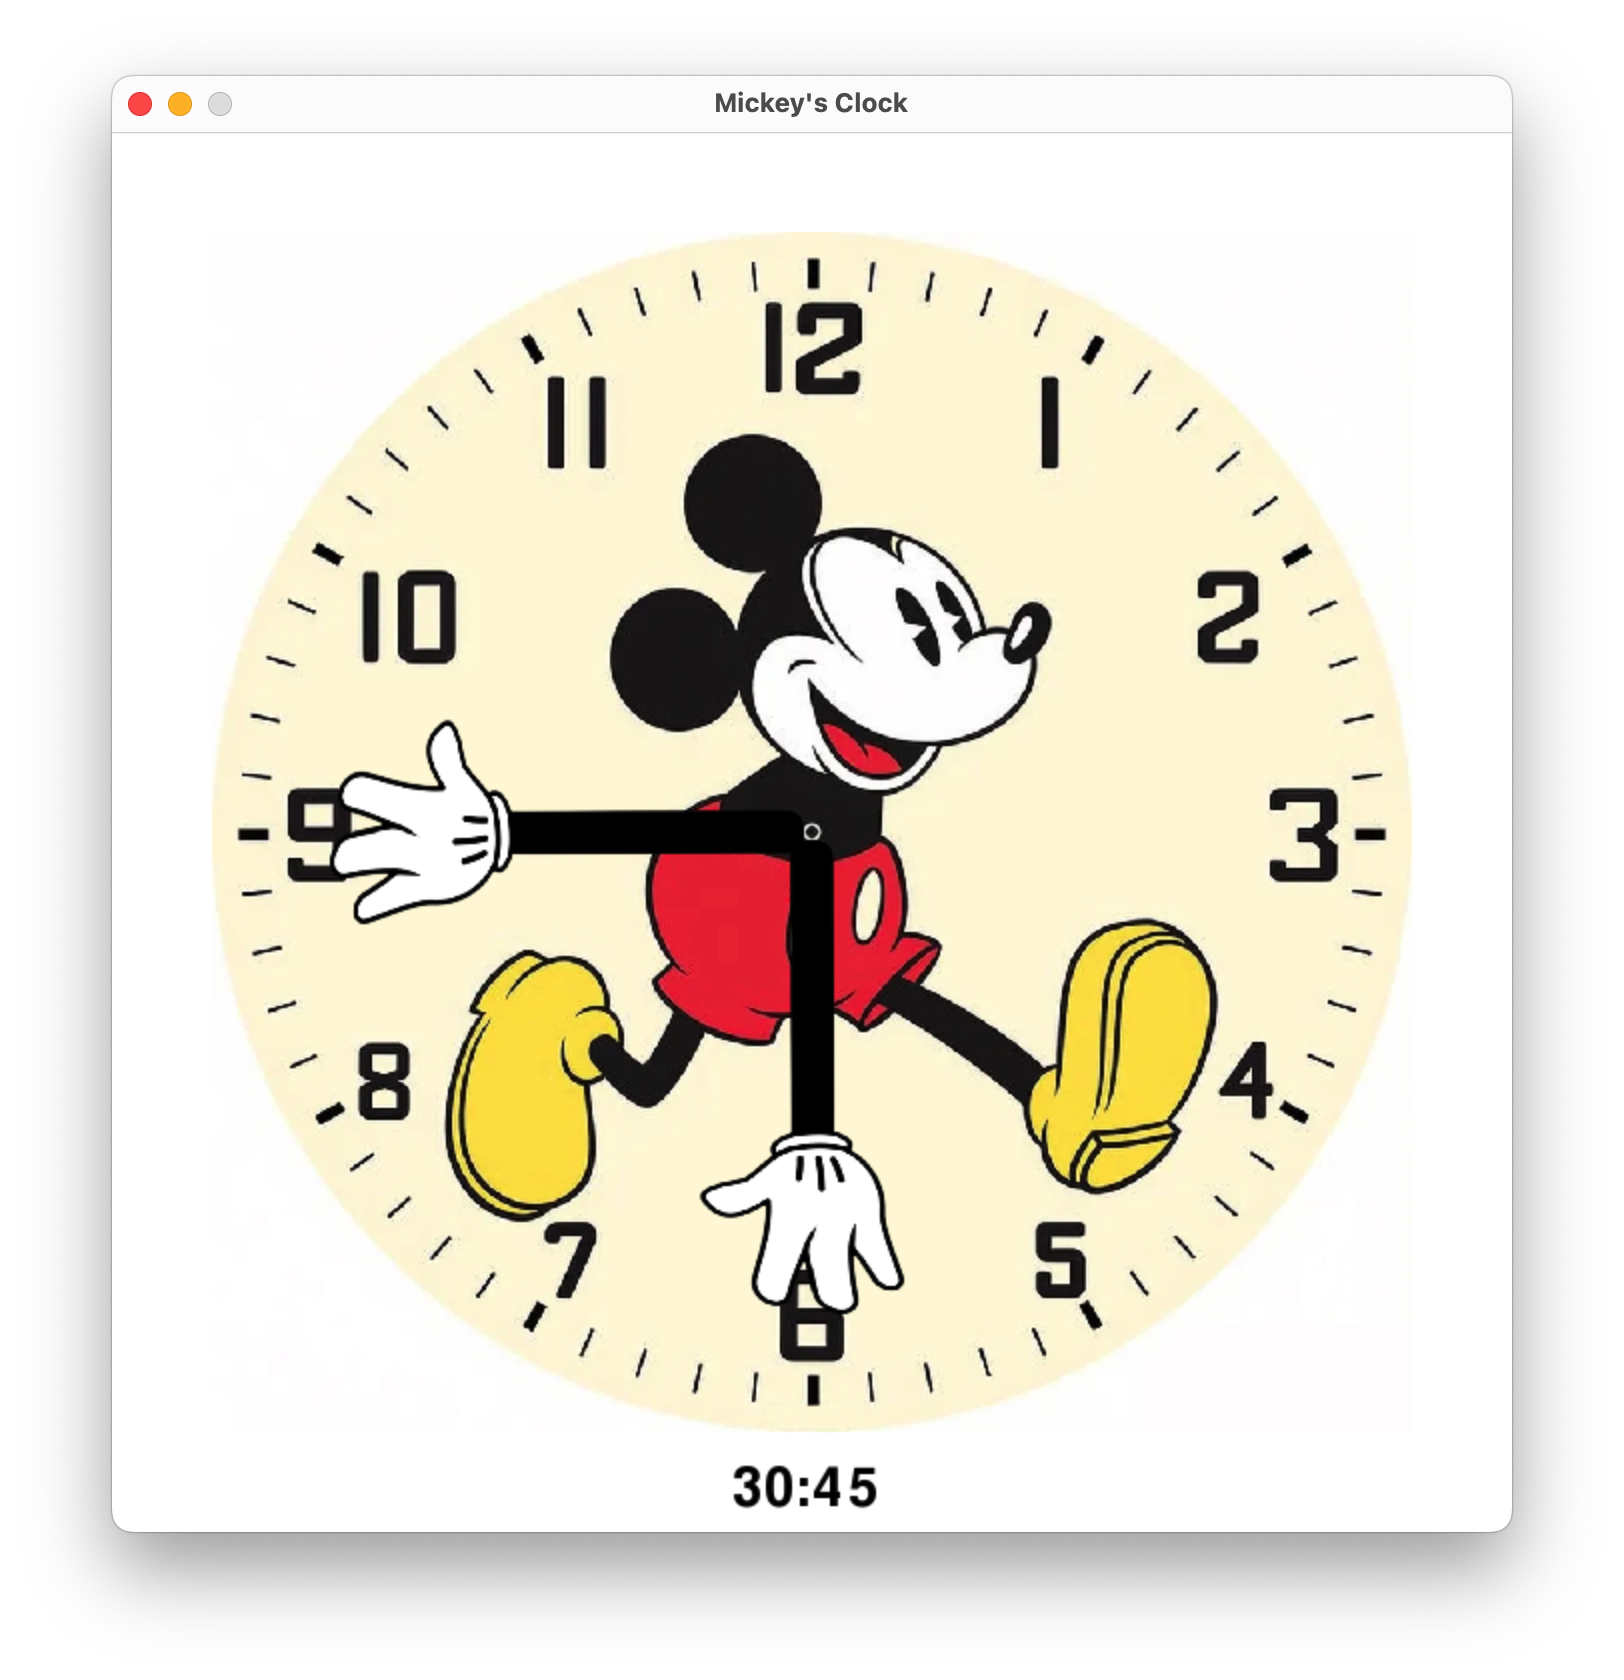
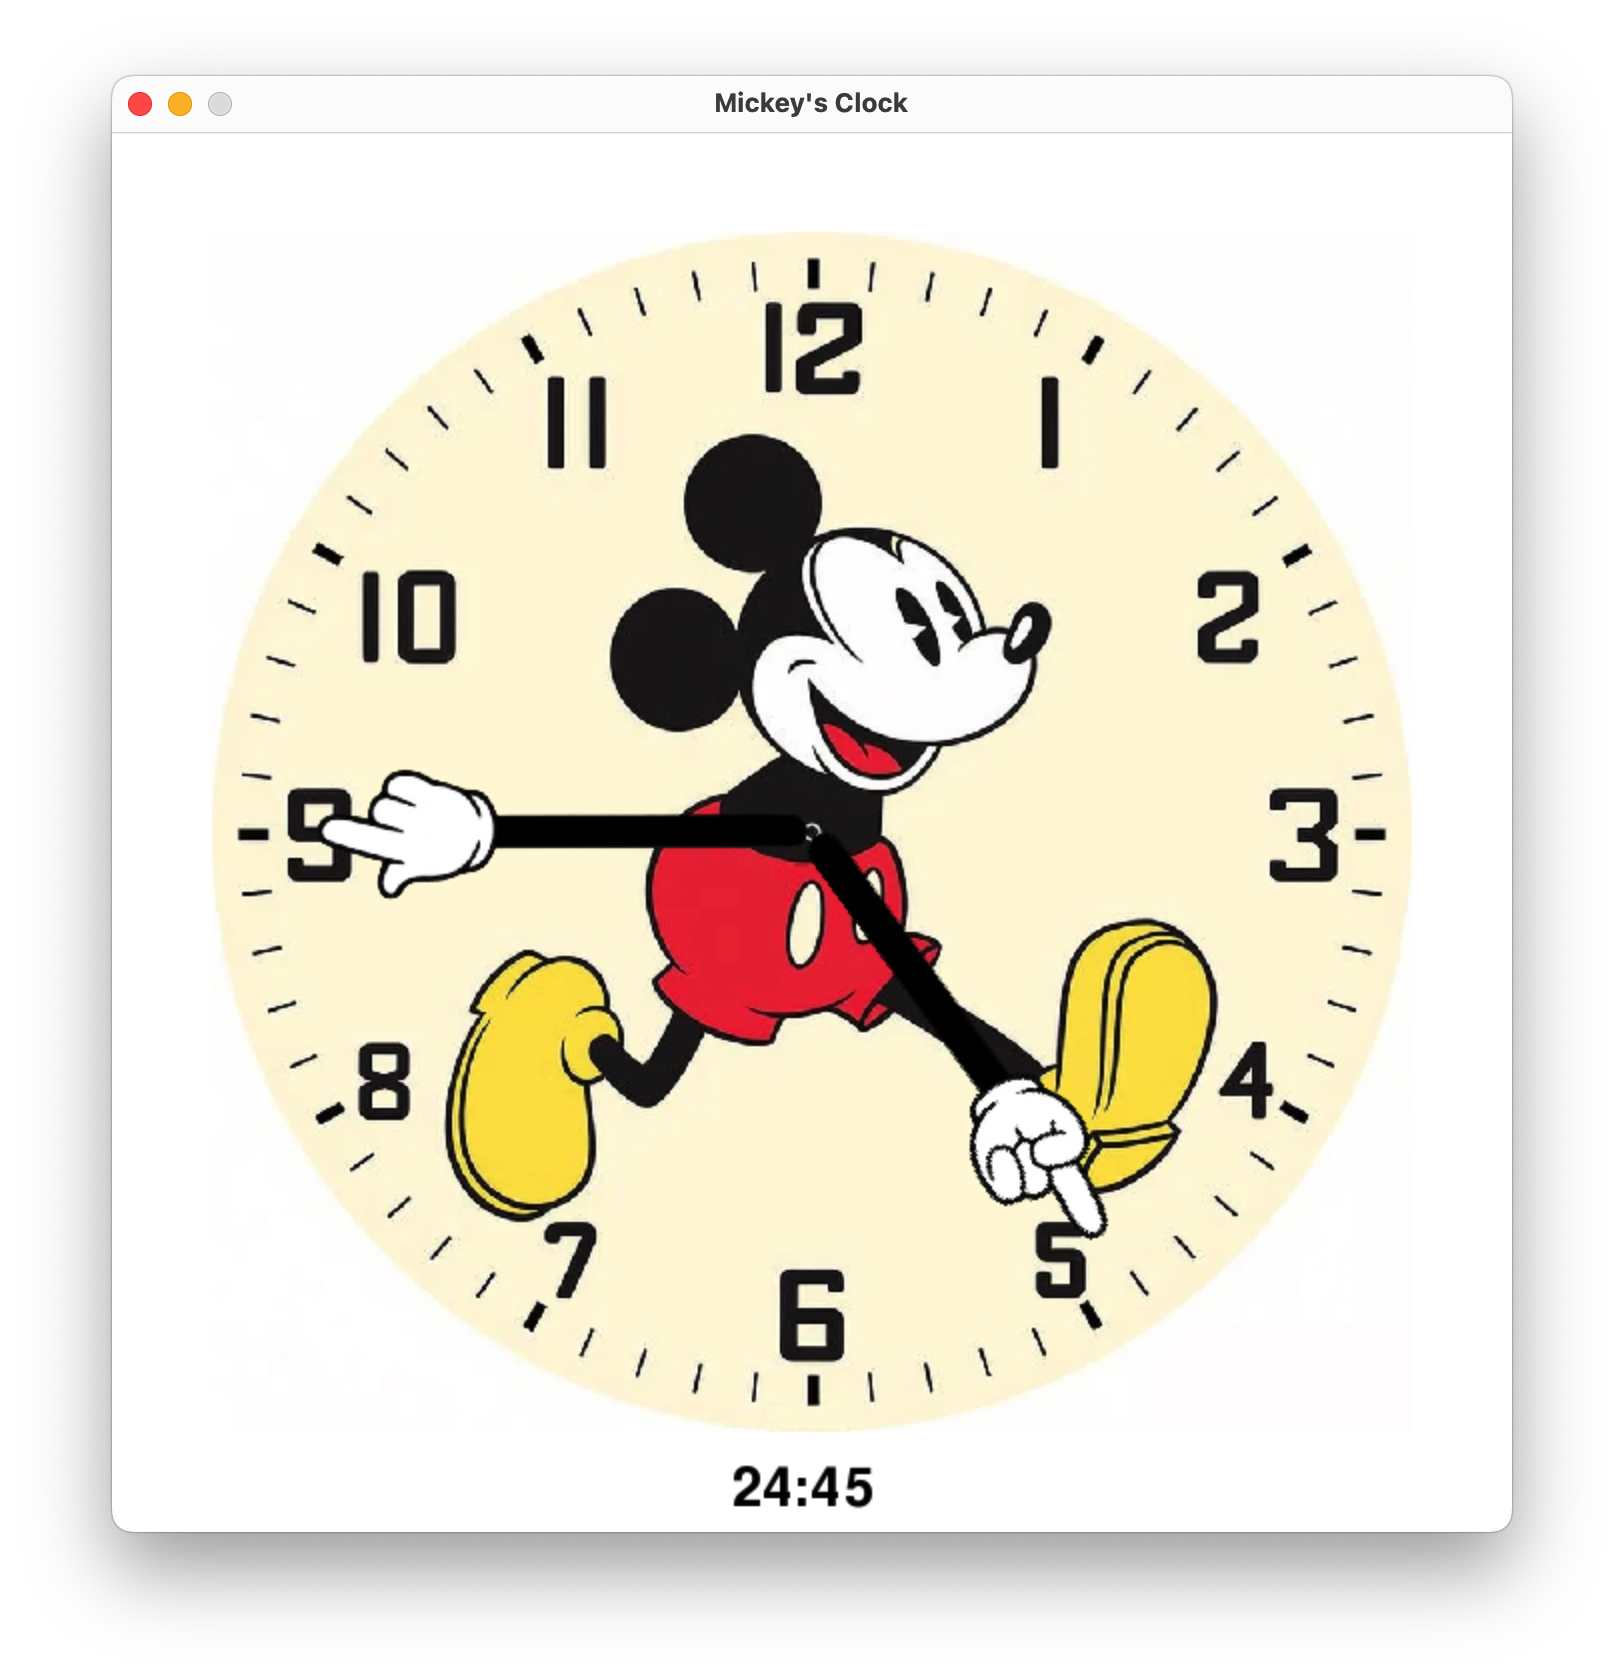
Refined some aspects.

Changed region(s): [[0.1847, 0.4333, 0.585, 0.8048], [0.585, 0.619, 0.6773, 0.7429], [0.431, 0.8667, 0.5542, 0.8976]]

diff --git a/practice-9/mickeys-clock/clock.py b/practice-9/mickeys-clock/clock.py
@@ -11,7 +11,8 @@ def start_application() -> None:
     pygame.display.set_caption("Mickey's Clock")
     clock = pygame.time.Clock()
     mickey = pygame.transform.scale(pygame.image.load(f'{Path(__file__).parent}/images/dial.jpg').convert_alpha(), (600, 600))
-    hand = pygame.transform.scale(pygame.image.load(f'{Path(__file__).parent}/images/hand.png').convert_alpha(), (500, 500))
+    left_hand = pygame.transform.scale(pygame.image.load(f'{Path(__file__).parent}/images/left-hand.png').convert_alpha(), (230, 500))
+    right_hand = pygame.transform.scale(pygame.image.load(f'{Path(__file__).parent}/images/right-hand.png').convert_alpha(), (230, 500))
     center = (width // 2, height // 2)
 
     def rotate_hand(image, angle):
@@ -29,8 +30,8 @@ def start_application() -> None:
         seconds = now.second
         minute_angle = -(minutes / 60) * 360
         second_angle = -(seconds / 60) * 360
-        rotated_minute, minute_rect = rotate_hand(hand, minute_angle)
-        rotated_second, second_rect = rotate_hand(hand, second_angle)
+        rotated_minute, minute_rect = rotate_hand(left_hand, minute_angle)
+        rotated_second, second_rect = rotate_hand(right_hand, second_angle)
         screen.fill((255, 255, 255))
         mickey_rect = mickey.get_rect(center=center)
         screen.blit(mickey, mickey_rect)
